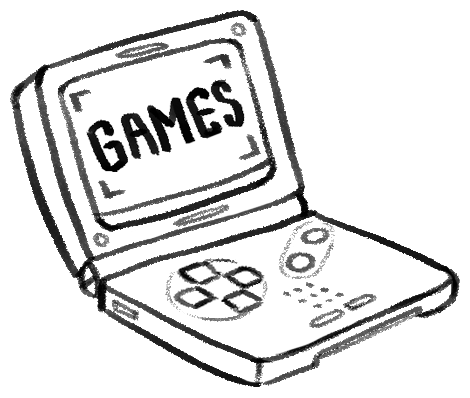
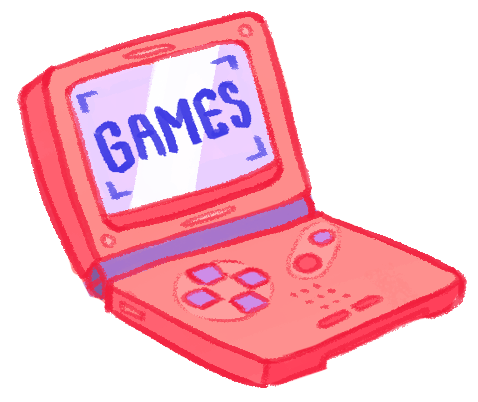
finished colouring main page comic

diff --git a/styles/style.css b/styles/style.css
@@ -367,6 +367,7 @@ a .homepage-comic-subpanel-contents:hover{
     font-size: 2rem;
     line-height: 2;
     z-index: 1;
+    color: var(--brown)
 }
 
 .text-box-one{
@@ -461,7 +462,7 @@ a .homepage-comic-subpanel-contents:hover{
 }
 
 .text-box-seven{
-    top: 120px;
+    top: 160px;
     width: 25%;
     text-align: center;
     line-height: 1.2;
@@ -470,12 +471,13 @@ a .homepage-comic-subpanel-contents:hover{
 }
 
 .text-box-eight{
-    top: 280px;
+    top: 210px;
     width: 25%;
     text-align: center;
     line-height: 1.2;
-    left: 725px;
+    left: 670px;
     z-index:1;
+    font-size:3rem;
 }
 
 .mail-icon{

diff --git a/index.html b/index.html
@@ -77,7 +77,6 @@
         <img src="images/contact.png" alt="A drawing" class="homepage-comic-subpanel-contents" style="width: 100%;">
         <p class="homepage-comic-subpanel-contents text-box text-box-seven">Reach out to me here!</p>
         <p class="homepage-comic-subpanel-contents text-box text-box-eight"><a class="in-text" href="mailto:wyrdle.art@gmail.com">wyrdle.art@gmail.com</a></p>
-        <a href="mailto:wyrdle.art@gmail.com"><img src="images/mail-creature.png" alt="A drawing" class="homepage-comic-subpanel-contents mail-icon"></a>
       </div>
     </div>  
     </div>

diff --git a/illustration/index.html b/illustration/index.html
@@ -50,7 +50,6 @@
               <div class="overlay-text">Zero Escape Fanart</div>
             </div>
           </div>
-          <div class="clearfix"></div>
           <div class="illustration-container">
             <img src="/illustration/images/Catfish.jpg" class="illustration-gallery-item">
             <div class="overlay">
@@ -184,6 +183,7 @@
             </div>
           </div>
         </div>      
+        <div class="clearfix"></div>
         <div id="myModal" class="modal">
             <span class="close">×</span>
             <img class="modal-content" id="img01">
